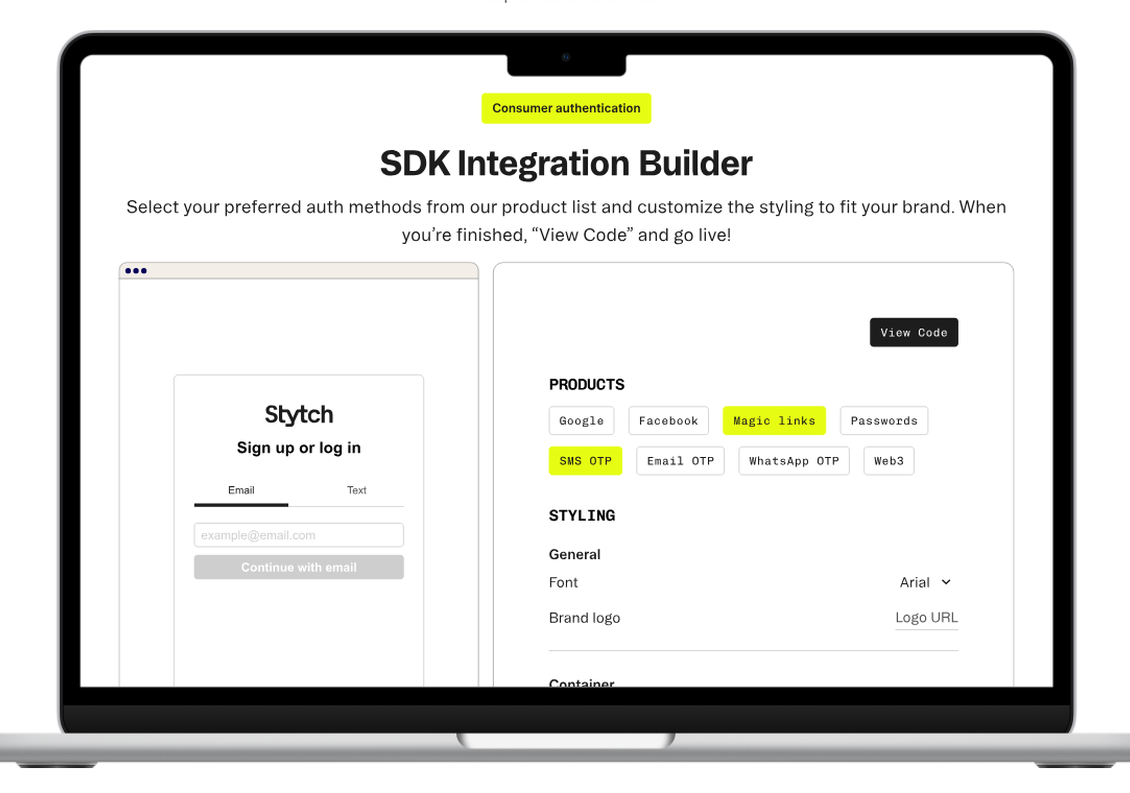
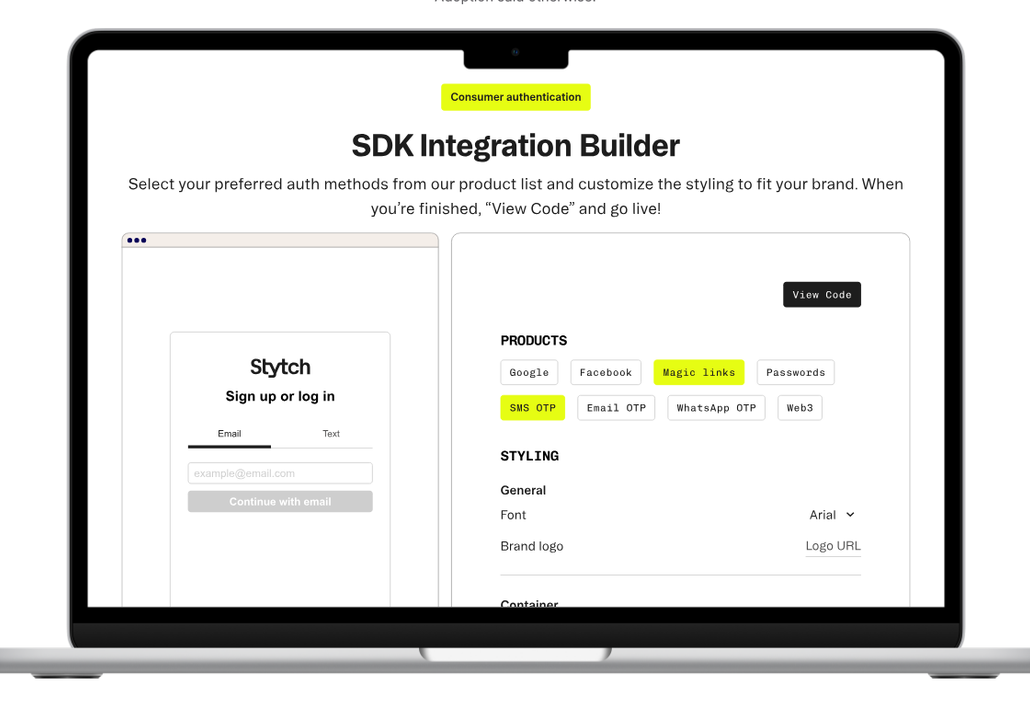
Scale down Stytch thumbnail's laptop a bit
Kelly's call: the Stytch card's treatment reads better a bit smaller.
Agent Identity's thumbnail is untouched for now, so its own
adjustment can be handled separately.

diff --git a/index.html b/index.html
@@ -56,7 +56,7 @@
       </li>
       <li class="card">
         <a href="stytch-sdk-integration-builder/">
-          <img class="card-thumb" src="stytch-sdk-integration-builder/thumbnail.png" alt="Stytch SDK Integration Builder deck hero slide, showing the SDK Integration Builder tool">
+          <img class="card-thumb" style="aspect-ratio:1030/717;" src="stytch-sdk-integration-builder/thumbnail.png" alt="Stytch SDK Integration Builder deck hero slide, showing the SDK Integration Builder tool">
           <div class="card-body">
             <p class="item-title">Driving SDK Adoption</p>
             <p class="item-desc">Stytch's prebuilt auth SDK promised fast integration, but customers had no way to know if it actually fit their product without integrating it first — closing that gap with a tool that lets them preview the SDK live against their own product before writing any code.</p>
